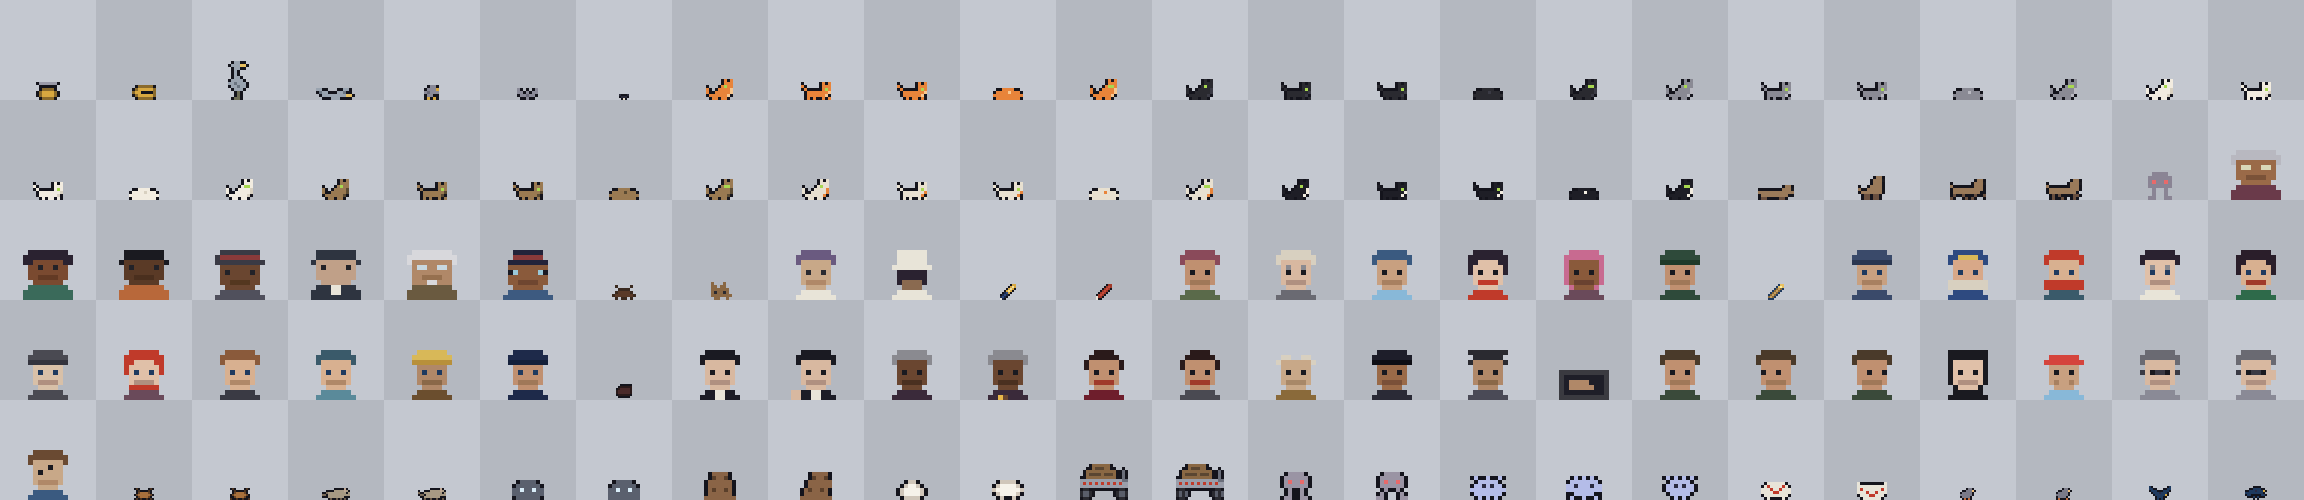
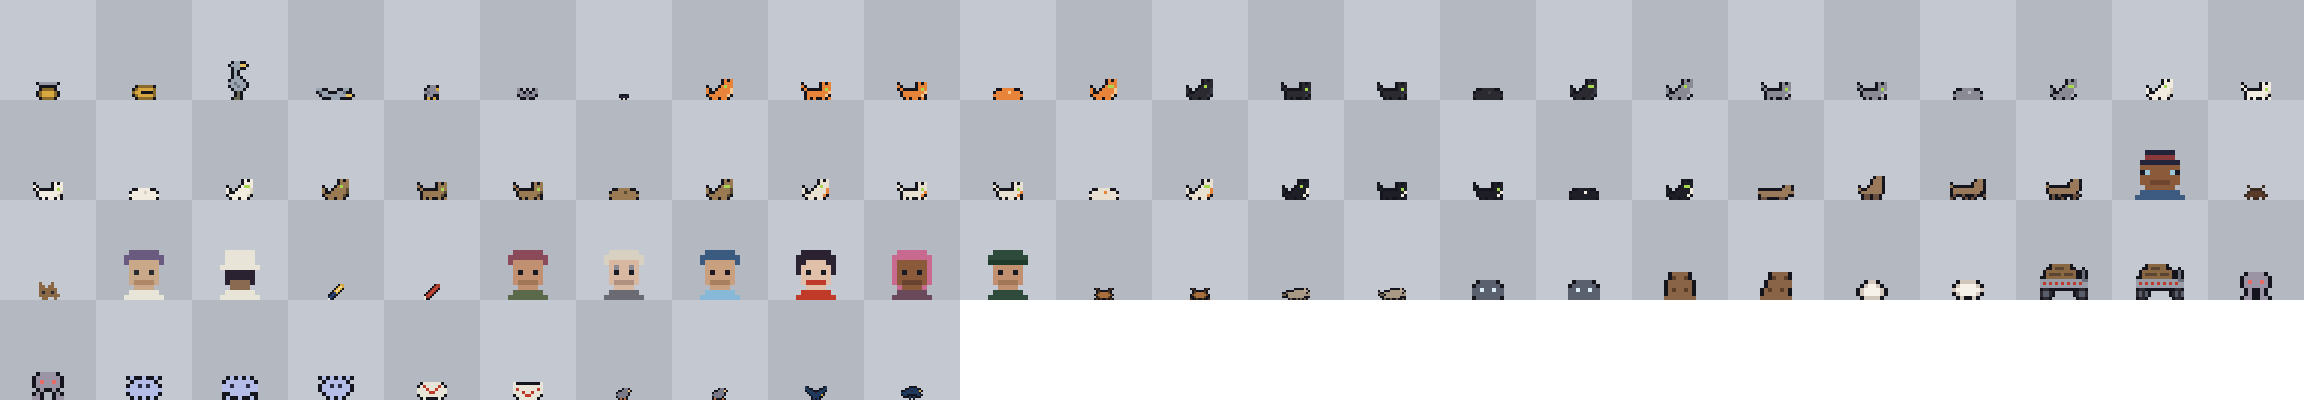
Cleanup report; contact sheets rebuilt without the legacy cast

diff --git a/docs/redesign/round2/CLEANUP_REPORT.md b/docs/redesign/round2/CLEANUP_REPORT.md
@@ -1,0 +1,101 @@
+# Cleanup report: three fixes from the code audit
+
+Checks on the final tree: vitest 302 tests pass (with `--hookTimeout=180000`, see Open items), `lint:content`, `lint:rooms` and `lint:scale` 0 failures, `vite build` clean. No scenario was run, because this job had no browser.
+
+## A. Progress with blocked or full storage
+
+`localStorageAdapter` keeps the last written string. `read` returns it when storage throws or the last write failed, and goes back to storage once a write gets through. `remove` clears it.
+
+One addition: `typeof localStorage` itself throws when the browser blocks site data, and it ran at module load, so such a browser could not have started the game at all. The default storage is now read inside a `try`.
+
+Tests are in `tests/failure.test.js`: three stubs (`setItem` throws, everything throws, no storage) and the recovery path.
+
+## B. Legacy dreams deleted
+
+`?legacy=1`, `?warp=<dream>_legacy`, `?pt=` and `?gm=` are gone.
+
+| Measure | Before | After B | After B and C |
+|---|---|---|---|
+| `dist` JS | 2,908.91 kB | 2,595.22 kB | 2,588.39 kB |
+| `dist` JS gzip | 910.07 kB | | 805.89 kB |
+| Atlas frames | 7,572 | 6,632 | 6,632 |
+| Atlas folder | 3.17 MB | 2.81 MB | 2.81 MB |
+
+Lines removed in `src`, `scripts` and `tests`: about 11,250 (see the commit's stat for the exact figure).
+
+**Whole files deleted**
+
+- `src/scenes/MusicianScene.js`, `PainterScene.js`, `GamblerScene.js`, `src/scenes/painter/`
+- `src/systems/gamblerPuzzles.js`, `painterPuzzles.js`, `cards.js`, `paint.js`
+- `src/data/gambler/`, `src/data/painter/`, `src/data/musician/`, `src/data/musicianData.js`
+- `src/entities/Pit.js`, `Stroke.js`
+- `src/dev/scenarios/betCard.js`
+
+**Trimmed inside surviving files**
+
+- `src/themes/musician.js`: kept the Big Stage's `npc-*` people and Jo's fallback portrait, which the framework dream uses from the atlas. The rest was dead art. It is no longer in the runtime bundle.
+- `src/data/teach.js`: 23 cards only the old scenes showed, listed by `lint:content`, and `plate_gate`'s musician zone.
+- `src/audio/bands.js`: the gambler, musician and painter bands.
+- `src/audio/places.js`: `LEGACY_ROOMS.gambler` and `BEDS.carpark`.
+- `src/systems/wallet.js`: the casino's pending chips and marker. The framework gambler's purse is `src/engines/purse.js`.
+- `src/systems/puzzles.js`: the three Musician puzzles.
+- `src/art/propKit.js`, `src/data/scale.js`: `pt-*`, `gm-*`, `mus-*` and `npc-kid` entries.
+
+**How each deletion was checked**
+
+- An import-graph walk from `main.js`, the harness, `scripts/` and `tests/`.
+- Each texture key the deleted sprite modules made, grepped across `src`, `scripts` and `tests`.
+- A frame-by-frame diff of the old and new atlas. Every removed frame is `gm-`, `pt-`, `mus-` or a dead `portrait-*`, plus `npc-kid`, `tool-brush` and `tool-horn-case`. The framework dreams set `tool: null` (painter, gambler) or `'trumpet'` (musician).
+
+**The three things to watch**
+
+- `scene` is now the literal `'Dream'` for musician, painter and gambler, and a new test in `tests/warp.test.js` asserts it. `IntroScene` and the hub read the same values.
+- Save ids are unchanged. `SaveStore` is not touched by B, and the `pt`/`gm` flag namespaces stay so old saves load.
+- The coin `shape: 'round'` is still set on the half dime. It belongs to the live dream, so it stays.
+
+**Kept on purpose, dead but harmless**
+
+- `src/builders/parallax.js`: 83 background names only the old rooms used. The file is shared with chef, writer and astronaut, and pruning it needs a visual check.
+- `src/data/kinds.js`: foe kinds `collector`, `farmer`, `gendarme`, `heckler`, `manager`, `metronome_walker`, `petitioner`, `runner`, `scalper`, `shopkeeper`, plus their art in `foeArt`.
+- `slots` and `cicadas` loops in `src/audio/synthLoops.js`. A test lists `slots`.
+- `src/dreams/gambler/dream.js` lines 2-3 still mention `?legacy=1`. The folder belongs to the casino job.
+
+## C. Dev shortcuts off the public site
+
+Gated on `import.meta.env.DEV`:
+
+- `firstSceneKey` use in `src/main.js`, which also covers `?scenarios` and `?notitle`
+- `devWarp` in `AstronautScene` and `WriterScene`
+- `?ev` in `EveningScene`
+- `?warp` in `DreamScene.init`
+
+`ChefScene` has no dev param. The pure `firstSceneKey` is untouched, so `tests/warp.test.js` still calls it. `npm run dev` takes the same paths as before, but that was not run.
+
+In the built JS, `get("at")` and `get("wr")` are gone. `get("ev")` remains as an argument that `devWarp` ignores, and `get("warp")` remains only in the restart's address-bar cleanup in `BaseLevel`.
+
+Left open on the public site:
+
+- `?touch` and `?sound`, as asked (`?sound` already does nothing in production).
+- `?flags`, because `tests/core.test.js` needs the parser and the brief said it stays. Gating the `initFlags` call in `main.js` would close it in one line and keep the test.
+- `EveningScene`'s `?first`, `?weather`, `?rare` and `?nohud`, which were outside this brief.
+
+## Scenarios
+
+Removed: `bet-card-hidden`, `gambler-legacy`, `painter-legacy`, `musician-legacy`.
+
+**Retargeted without being run, so check these first**
+
+- `background-snap`: now `writer:attic` holding left, was the casino floor.
+- `shadow-slope`: now the chef-arrival ramp, was the old musician's.
+
+**Worth rerunning**
+
+- The legacy entries were removed from these: the stair sites in `round2.js`, `objective-room-entry`, `backdrop-scale`, the `jo-route-*` set, the `failure.js` set and `backgroundSnap.js`'s dream list.
+- `scale.js` and the three dream suites (`musician.js`, `painter.js`, `gambler.js`) cover the new atlas and boarding.
+- `wp6.js`, `proofTrain.js` and `round2flow.js` cover the hub boarding each platform.
+
+## Open items
+
+- **Slot-machine sounds on the riverboat, an existing bug.** No room in `src/dreams/gambler/rooms/` sets `events`, so `DreamScene` falls back to `PLACE_BED.gambler`, which is `'casino'` (chips, slot jingle, win bell). I kept `BEDS.casino` so this change alters nothing. The casino job may want a riverboat bed.
+- **`tests/audioMix.test.js` fails on bare `vitest run` on this Mac, before and after this work.** Its `beforeAll` needs more than the default 10 s hook timeout. It passes with `--hookTimeout=180000`.
+- **Merge conflicts are possible in `src/data/scale.js`.** The `PROP_TABLE` lines edited here also hold `ev-*` entries, which the Last Stop job may be changing.
